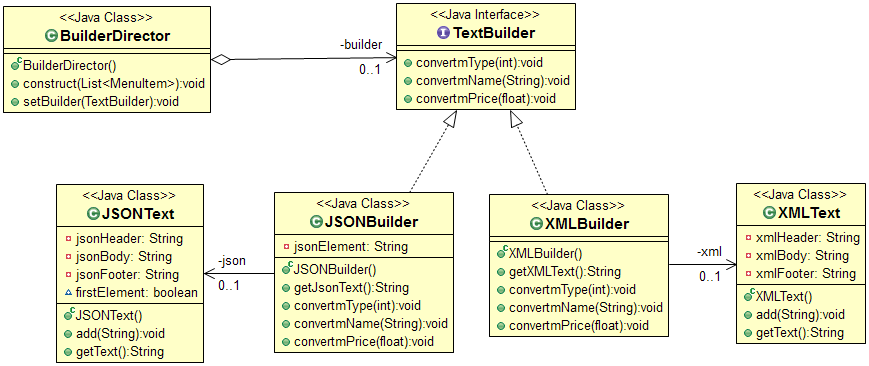
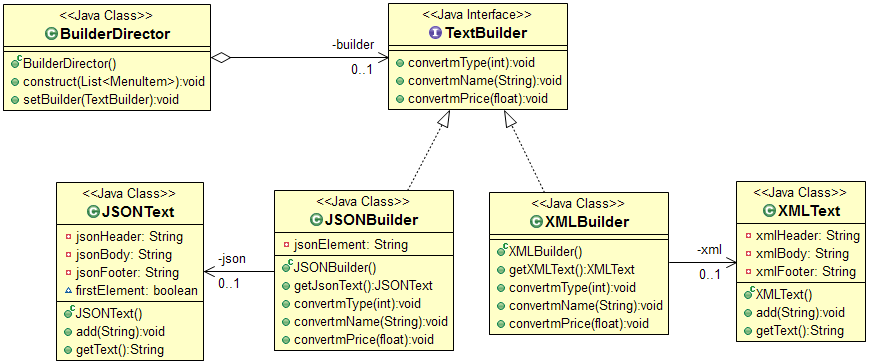
modify builder pattern

diff --git a/MaoMao/src/ustc/maomao/patterns/prototype/Notification.java b/MaoMao/src/ustc/maomao/patterns/prototype/Notification.java
@@ -1,6 +1,7 @@
 
 package ustc.maomao.patterns.prototype;
 
+import ustc.maomao.patterns.support.COSUser;
 
 /**
  * @author Keene. Mail: waterzhj@ustc.edu.cn
@@ -12,55 +13,80 @@ package ustc.maomao.patterns.prototype;
  *         designed by Keene, implemented by {Keene}
  * 
  *         COS系统通知原型对象类型（包含域通知标题，通知内容，尾注等）
- *      
+ * 
  */
-public class Notification implements Cloneable{
-	
-        private String title;
-        private String content;
-        private NotificationFooter footer;
-        
-        Notification(NotificationFooter foo){
-        	footer=foo;        	
-        }
-        
-		/* 克隆Notification对象（浅拷贝--shallow copy，共享footer）
-		 * @see java.lang.Object#clone()
-		 */
-		@Override
-		public Notification clone()  {
-			// TODO Auto-generated method stub
-			try {
-				return (Notification)super.clone();
-			} catch (CloneNotSupportedException e) {
-				// TODO Auto-generated catch block
-				e.printStackTrace();
-			}
-			return null;
+public class Notification implements Cloneable {
+
+	private String title;
+	private String content;
+	private COSUser receiver;
+
+	private NotificationFooter footer;
+
+	Notification(NotificationFooter foo) {
+		footer = foo;
+	}
+
+	/*
+	 * 克隆Notification对象（浅拷贝--shallow copy，共享footer）
+	 * 
+	 * @see java.lang.Object#clone()
+	 */
+	@Override
+	public Notification clone() {
+		// TODO Auto-generated method stub
+		try {
+			return (Notification) super.clone();
+		} catch (CloneNotSupportedException e) {
+			// TODO Auto-generated catch block
+			e.printStackTrace();
 		}
-		/**
-		 * @return the title
-		 */
-		public String getTitle() {
-			return title;
-		}
-		/**
-		 * @param title the title to set
-		 */
-		public void setTitle(String title) {
-			this.title = title;
-		}
-		/**
-		 * @return the content
-		 */
-		public String getContent() {
-			return content;
-		}
-		/**
-		 * @param content the content to set
-		 */
-		public void setContent(String content) {
-			this.content = content;
-		}
-		
+		return null;
+	}
+
+	/**
+	 * @return the title
+	 */
+	public String getTitle() {
+		return title;
+	}
+
+	/**
+	 * @param title
+	 *            the title to set
+	 */
+	public void setTitle(String title) {
+		this.title = title;
+	}
+
+	/**
+	 * @return the content
+	 */
+	public String getContent() {
+		return content;
+	}
+
+	/**
+	 * @param content
+	 *            the content to set
+	 */
+	public void setContent(String content) {
+		this.content = content;
+	}
+
+	/**
+	 * @return the receiver
+	 */
+	public COSUser getReceiver() {
+		return receiver;
+	}
+
+	/**
+	 * @param receiver
+	 *            the receiver to set
+	 */
+	public void setReceiver(COSUser receiver) {
+		this.receiver = receiver;
+	}
+
 }

diff --git a/MaoMao/src/ustc/maomao/patterns/builder/BuilderTester.java b/MaoMao/src/ustc/maomao/patterns/builder/BuilderTester.java
@@ -35,10 +35,22 @@ public class BuilderTester implements PatternTester {
 		}
 		
 		BuilderDirector director=new BuilderDirector();
-		JSONBuilder builder=new JSONBuilder();
-		director.setBuilder(builder);
+		
+		
+		JSONBuilder jsonBuilder=new JSONBuilder();
+		
+		director.setBuilder(jsonBuilder);
 		director.construct( dataSource);		
-		System.out.println(builder.getJsonText());		
+		
+		XMLBuilder xmlBuilder=new XMLBuilder();
+		director.setBuilder(xmlBuilder);
+		director.construct(dataSource);
+		
+		System.out.println(jsonBuilder.getJsonText().getText());
+		System.out.println("--------分割线--------------");
+		System.out.println(xmlBuilder.getXMLText().getText());
+		
+		
 	}
 
 }

diff --git a/MaoMao/src/ustc/maomao/patterns/mediator/Staff.java b/MaoMao/src/ustc/maomao/patterns/mediator/Staff.java
@@ -5,6 +5,7 @@ import ustc.maomao.patterns.iterator.PendingOrders;
 import ustc.maomao.patterns.memento.CareTaker;
 import ustc.maomao.patterns.state.OrderState;
 import ustc.maomao.patterns.state.PlacedState;
+import ustc.maomao.patterns.support.COSUser;
 import ustc.maomao.patterns.support.MealOrder;
 
 /**
@@ -19,7 +20,7 @@ import ustc.maomao.patterns.support.MealOrder;
  *         餐厅员工类
  * 
  */
-public class Staff implements Colleague {
+public class Staff extends COSUser implements Colleague {
 
 	private ColleagueMediator mediator;// 仲裁者
 	private CareTaker caretaker;// 订单备忘录守护者

diff --git a/MaoMao/src/ustc/maomao/patterns/mediator/Deliverer.java b/MaoMao/src/ustc/maomao/patterns/mediator/Deliverer.java
@@ -1,5 +1,6 @@
 package ustc.maomao.patterns.mediator;
 
+import ustc.maomao.patterns.support.COSUser;
 import ustc.maomao.patterns.support.MealOrder;
 
 /**
@@ -14,7 +15,7 @@ import ustc.maomao.patterns.support.MealOrder;
  *         配送餐员类
  * 
  */
-public class Deliverer implements Colleague {
+public class Deliverer extends COSUser implements Colleague {
 
 	private ColleagueMediator mediator;// 仲裁者
 

diff --git a/MaoMao/src/ustc/maomao/patterns/support/COSUser.java b/MaoMao/src/ustc/maomao/patterns/support/COSUser.java
@@ -1,0 +1,17 @@
+package ustc.maomao.patterns.support;
+
+/**
+ * @author Keene. Mail: waterzhj@ustc.edu.cn
+ * 
+ *         该代码遵循MIT License, 详细见 https://mit-license.org/
+ * 
+ *         Copyright {2017} {Keene}
+ * 
+ *         designed by Keene, implemented by {Keene}
+ * 
+ *         COS系统用户
+ *      
+ */
+public class COSUser {
+
+}

diff --git a/MaoMao/src/ustc/maomao/patterns/support/Patron.java b/MaoMao/src/ustc/maomao/patterns/support/Patron.java
@@ -24,7 +24,7 @@ import ustc.maomao.patterns.visitor.FoodTypeVisitor;
  *         订餐客户
  * 
  */
-public class Patron implements Colleague {
+public class Patron extends COSUser implements Colleague {
 
 	private PatronLevel level;// 客户等级
 

diff --git a/MaoMao/src/ustc/maomao/patterns/builder/XMLBuilder.java b/MaoMao/src/ustc/maomao/patterns/builder/XMLBuilder.java
@@ -26,8 +26,8 @@ public class XMLBuilder implements TextBuilder {
 	 * 获取xml文本
 	 * @return xml文本
 	 */
-	public String getXMLText(){		
-		return xml.getText();
+	public XMLText getXMLText(){		
+		return xml;
 	}
 
 	/* (non-Javadoc)

diff --git a/MaoMao/src/ustc/maomao/patterns/builder/JSONBuilder.java b/MaoMao/src/ustc/maomao/patterns/builder/JSONBuilder.java
@@ -24,8 +24,8 @@ public class JSONBuilder implements TextBuilder {
 	/**
 	 * @return 构造的json文本
 	 */
-	public String getJsonText() {
-		return json.getText();
+	public JSONText getJsonText() {
+		return json;
 	}
 
 	/*
